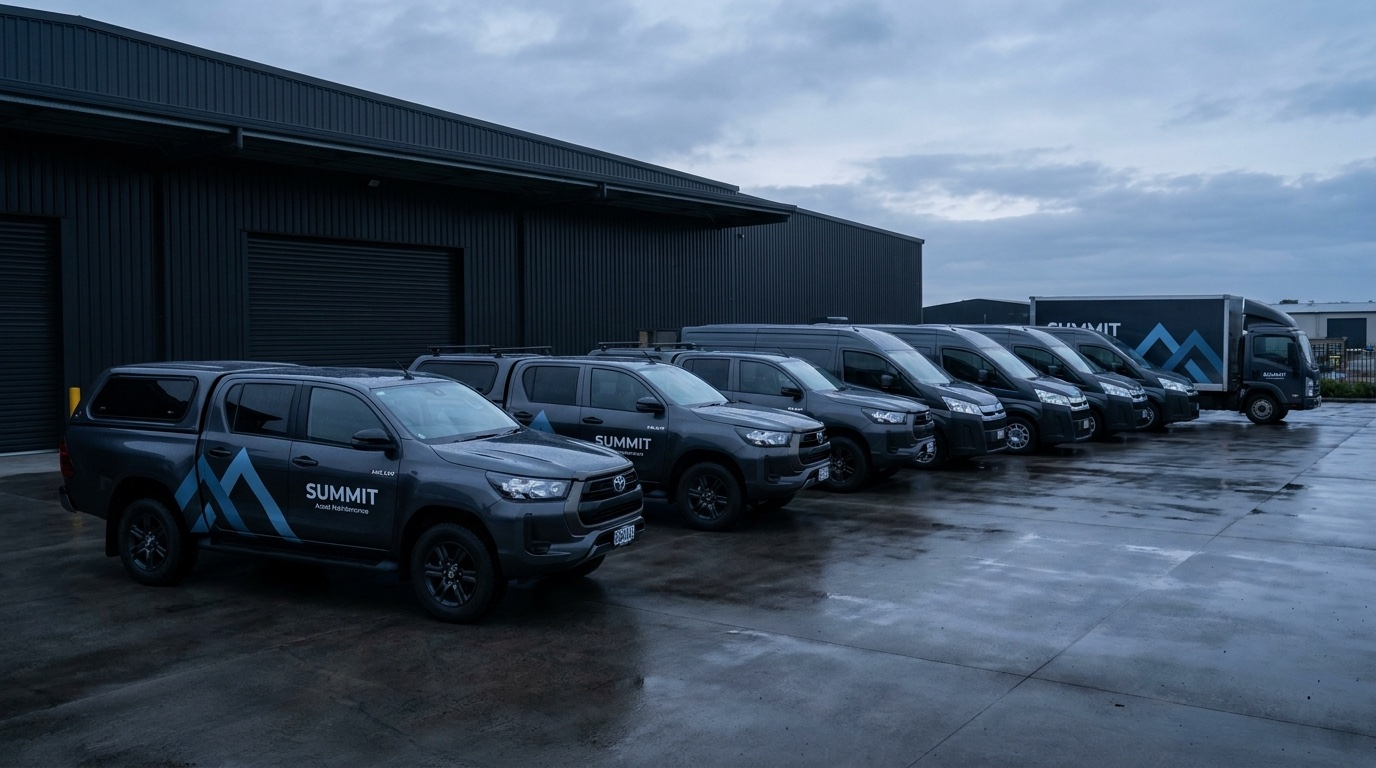
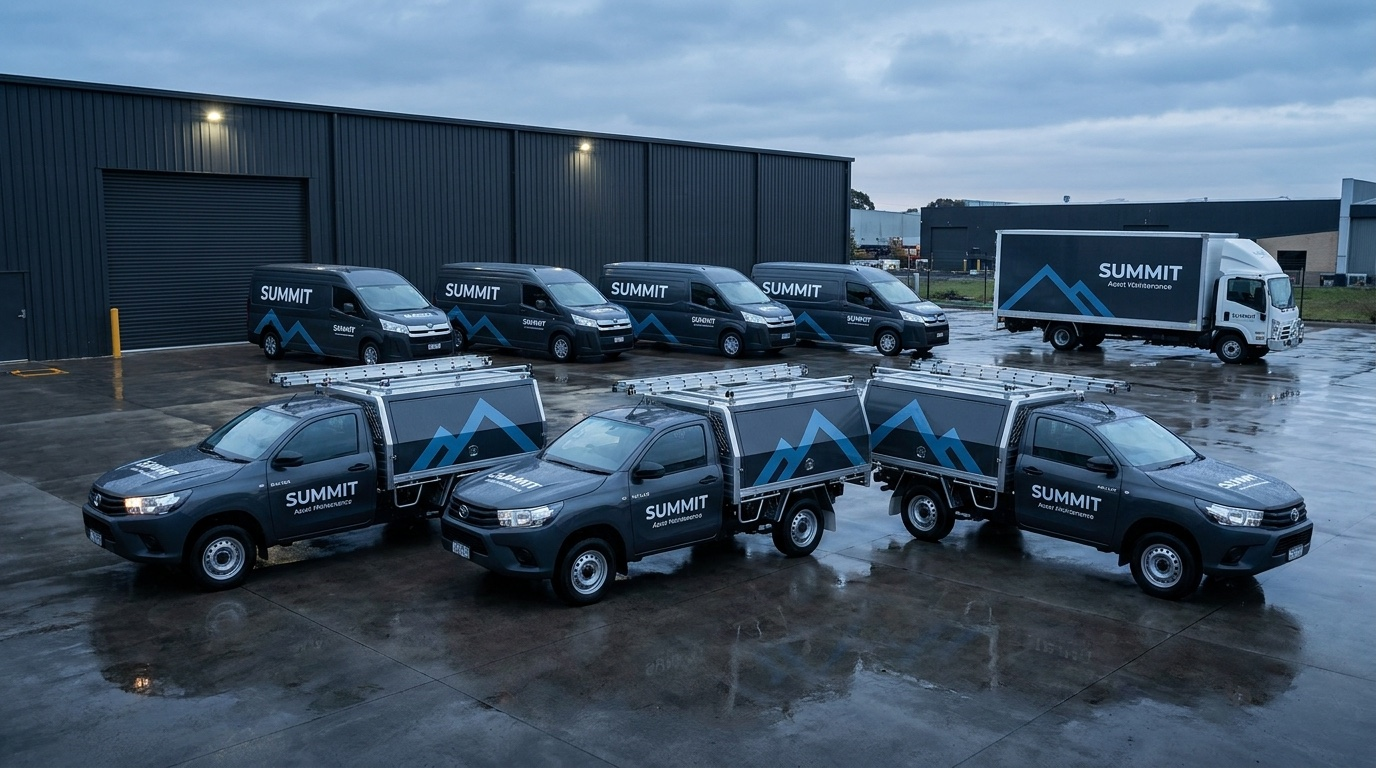
Fleet image: flat-tray HiLux with aluminium box service bodies
Reworked per Caleb: single-cab cab-chassis HiLux with tall aftermarket
box service canopies (gullwing + rear door, roof rack) instead of tub
canopies — the peak chevron sits on the box side panels. Alt text updated.

diff --git a/about.html b/about.html
@@ -98,7 +98,7 @@
 
 <!-- FLEET -->
 <section class="fleetband" aria-label="The Summit fleet">
-  <img loading="lazy" decoding="async" src="assets/img/fleet.jpg" alt="Summit Asset Maintenance fleet at the depot at dawn — HiLux service utes with canopies, HiAce vans and a box truck, all in Summit livery">
+  <img loading="lazy" decoding="async" src="assets/img/fleet.jpg" alt="Summit Asset Maintenance fleet at the depot at dawn — HiLux service utes with aluminium box service bodies, HiAce vans and a box truck, all in Summit livery">
   <div class="cap">
     <span class="eyebrow">The fleet</span>
     <span class="line">Wrapped, equipped and ready &mdash; across Sydney &amp; Greater NSW.</span>

diff --git a/index.html b/index.html
@@ -180,7 +180,7 @@
 
 <!-- FLEET -->
   <section class="fleetband" aria-label="The Summit fleet">
-    <img loading="lazy" decoding="async" src="assets/img/fleet.jpg" alt="Summit Asset Maintenance fleet at the depot at dawn — HiLux service utes with canopies, HiAce vans and a box truck, all in Summit livery">
+    <img loading="lazy" decoding="async" src="assets/img/fleet.jpg" alt="Summit Asset Maintenance fleet at the depot at dawn — HiLux service utes with aluminium box service bodies, HiAce vans and a box truck, all in Summit livery">
     <div class="cap">
       <span class="eyebrow">The fleet</span>
       <span class="line">Wrapped, equipped and ready &mdash; across Sydney &amp; Greater NSW.</span>